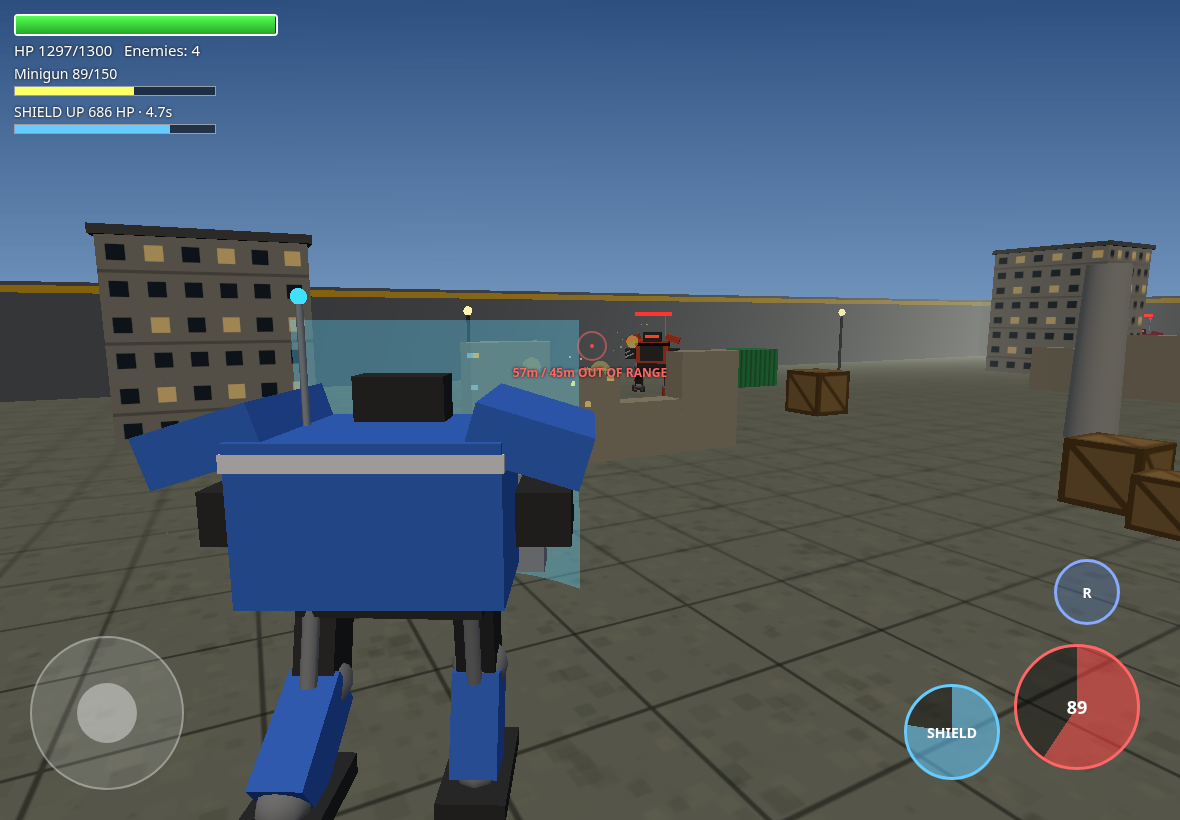
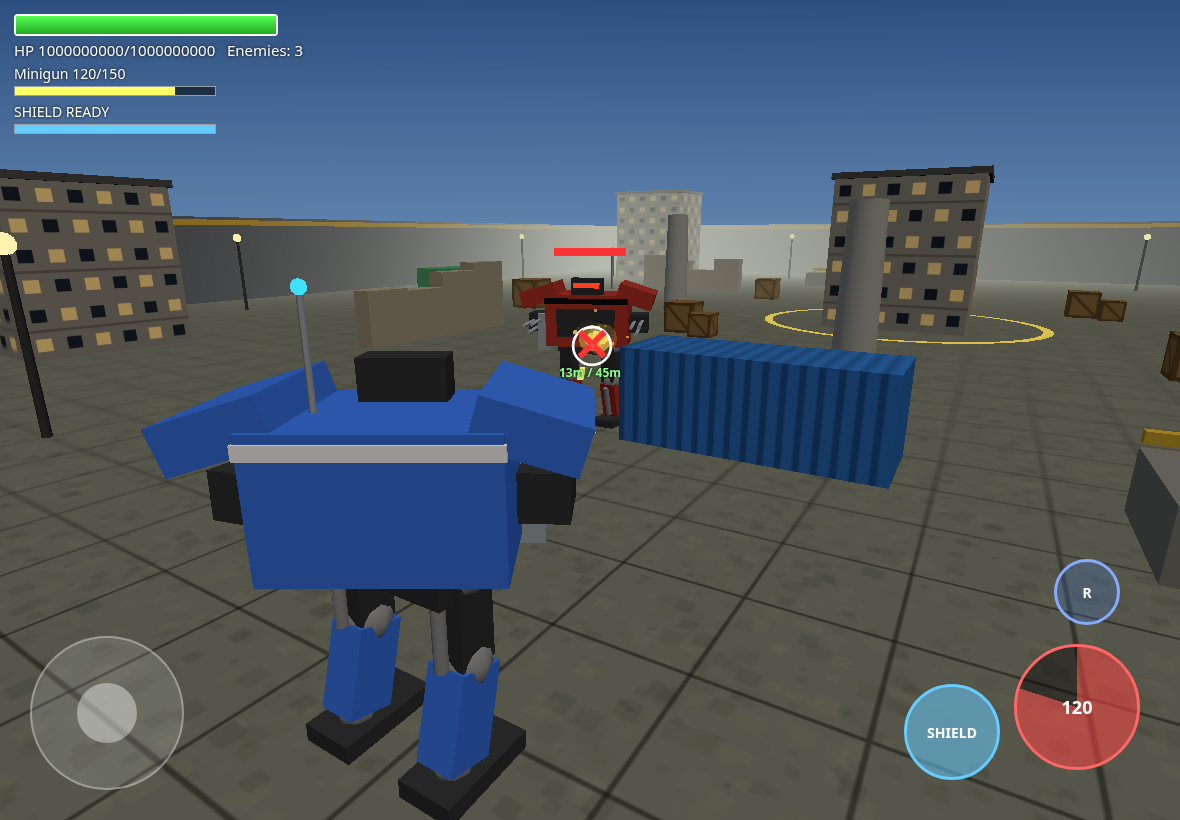
v6: accurate aiming - camera-ray aim point, converging barrels, swept hit detection, box hitboxes, hitscan railgun, hit marker

diff --git a/game.js b/game.js
@@ -1,7 +1,7 @@
 import * as THREE from './three.module.js';
 // ======================= CONFIG (tune here) =======================
 const CFG={
- cam:{dist:7,height:5.4,side:2.2,lookAhead:12,pitchLift:5},
+ cam:{dist:7,height:5.4,side:2.2,lookAhead:12,aimMaxYaw:0.6,aimMaxPitch:0.5,aimTurn:20,pitchLift:5},
  gravity:26, torsoTurn:14, legTurn:6,
  mechs:{
   guardian:{name:'Guardian',hp:1300,speed:7.5,color:0x3a6fd5,enemyColor:0xa8322a,
@@ -16,12 +16,13 @@ const CFG={
  },
  weapons:{
   minigun:{name:'Minigun',desc:'Huge fire rate, low damage per bullet. Spins up. Damage falls off past 60% range.',
-   dmg:8,interval:0.045,spin:0.5,range:45,falloff:0.6,mag:150,reload:3.0,spread:0.05,speed:130,aiBurst:20},
+   dmg:8,interval:0.045,spin:0.5,range:45,falloff:0.6,mag:150,reload:3.0,spread:0.012,speed:160,aiBurst:20},
   railgun:{name:'Railgun',desc:'Slow, precise, hits very hard at long range.',
-   dmg:130,interval:1.1,range:110,mag:6,reload:3.5,spread:0.003,speed:240,aiBurst:1},
+   dmg:130,interval:1.1,range:110,mag:6,reload:3.5,spread:0,speed:240,hitscan:true,aiBurst:1},
   hornet:{name:'Hornet Lock-On',desc:'Hold the crosshair on an enemy in range to lock, then fire homing rockets. Unlocked shots fly straight.',
    dmg:65,interval:0.28,range:55,mag:8,reload:4.0,spread:0.01,speed:42,splash:3.5,homing:true,lockTime:0.9,lockCone:0.2,turnRate:3.2,aiBurst:2},
  },
+ hitbox:{hx:1.5,y0:0.2,y1:5.4,shield:2.6},
  enemy:{count:[3,5],hpMul:0.42,speedMul:0.75,dmgMul:0.55,fireMul:1.5,spread:0.07,torsoTurn:2.5,legTurn:4,burstPause:[1.3,2.6]},
 };
 // ==================================================================
@@ -134,7 +135,7 @@ function animLegs(u,mvx,mvz,sp,dt,legTurn){let dir=1;
  for(const j of u.jets)j.visible=air&&u.vy>-2;
  if(u.shield)u.shield.visible=u.shieldOn;
  if(u.hp<u.max*.35){u.smokeT-=dt;if(u.smokeT<=0){u.smokeT=.12;const p=new THREE.Vector3();u.top.getWorldPosition(p);p.y+=1.5;fx(p,.6,0x333333,{vy:3,grow:2.5,life:1.4,op:.6});}}
- u.lower.rotation.y=u.legYaw;u.top.rotation.y=u.tYaw;u.lower.rotation.z=Math.sin(u.walk)*0.04*u.amp;for(const g of u.guns)g.rotation.x=u.gp;}
+ u.lower.rotation.y=u.legYaw;u.top.rotation.y=u.tYaw;u.lower.rotation.z=Math.sin(u.walk)*0.04*u.amp;if(u.team!=='p')for(const g of u.guns)g.rotation.x=u.gp;}
 // ---------- state ----------
 let P,E=[],B=[],FX=[],mode='menu',clock=0;
 const inp={mx:0,mz:0,fire:false,keys:{}};
@@ -160,9 +161,10 @@ const fxG=new THREE.SphereGeometry(1,8,6),sparkG=new THREE.BoxGeometry(.12,.12,.
 function fx(p,s,c,o={}){const m=new THREE.Mesh(o.box?sparkG:fxG,new THREE.MeshBasicMaterial({color:c,transparent:true,opacity:o.op||1,depthWrite:false}));m.position.copy(p);m.scale.setScalar(s*.2);S.add(m);FX.push({m,t:0,s,v:o.v||new THREE.Vector3(0,o.vy||0,0),grow:o.grow??1,life:o.life||.33,op:o.op||1,g:o.box?-20:0});}
 function boom(p,s,c=0xff8800){fx(p,s,c);}
 function sparks(p,c=0xffe070){for(let i=0;i<4;i++)fx(p,1,c,{box:1,grow:0,life:.35,v:new THREE.Vector3((Math.random()-.5)*12,Math.random()*8,(Math.random()-.5)*12)});}
-function muzzle(u,i){u.flash[i].visible=true;u.flash[i].rotation.z=Math.random()*3;u.flashT=.05;const p=new THREE.Vector3();u.guns[i].getWorldPosition(p);const f=new THREE.Vector3(Math.sin(u.tYaw),0,Math.cos(u.tYaw));return p.addScaledVector(f,u.mz);}
-function fireWeapon(u,aimPt,homing){const W=u.W;u.fireCd=W.interval*(u.team==='e'?CFG.enemy.fireMul:1)/(W.spin?Math.max(.3,u.spin):1);u.ammo--;
- const f=muzzle(u,u.ammo%2);const d=u.team==='p'?torsoDir(f,aimPt):aimPt.clone().sub(f).normalize();
+function muzzle(u,i){u.flash[i].visible=true;u.flash[i].rotation.z=Math.random()*3;u.flashT=.05;const p=new THREE.Vector3();u.guns[i].updateMatrixWorld(true);return u.guns[i].localToWorld(p.set(0,0,u.mz));}
+const STATS={shots:0,hits:0};
+function fireWeapon(u,aimPt,homing){if(u.team==='p')STATS.shots++;const W=u.W;u.fireCd=W.interval*(u.team==='e'?CFG.enemy.fireMul:1)/(W.spin?Math.max(.3,u.spin):1);u.ammo--;
+ const f=muzzle(u,u.ammo%2);const d=aimPt.clone().sub(f).normalize();
  const s=W.spread+(u.team==='e'?CFG.enemy.spread:0);d.x+=(Math.random()-.5)*s;d.y+=(Math.random()-.5)*s*.6;d.z+=(Math.random()-.5)*s;d.normalize();
  shoot(f,d,u,homing);if(u.ammo<=0)u.reload=W.reload;}
 // damage, with Guardian frontal shield
@@ -182,7 +184,8 @@ function tickUnit(u,dt){const T=u.T;u.abCd=Math.max(0,u.abCd-dt);u.fireCd-=dt;
 function speedOf(u){return u.speed*(u.shieldOn?u.T.shield.slow:1)*(u.air&&u.T.jump?u.T.jump.airSpeed:1);}
 // player aim
 const ray=new THREE.Raycaster();const AIMNDC=new THREE.Vector2(0,0.16);
-function playerAim(){ray.setFromCamera(AIMNDC,C);const tg=[...E.map(e=>e.g),...obstMeshes,ground];const h=ray.intersectObjects(tg,true).find(h=>h.distance>CFG.cam.dist+2);return h?h.point:ray.ray.at(150,new THREE.Vector3());}
+function playerAim(){ray.setFromCamera(AIMNDC,C);const tg=[...E.map(e=>e.g),...obstMeshes,ground];const h=ray.intersectObjects(tg,true).find(h=>h.distance>C.position.distanceTo(P.g.position)+1);aimOnEnemy=!!(h&&E.some(e=>{let o=h.object;while(o){if(o===e.g)return true;o=o.parent;}return false;}));return h?h.point:ray.ray.at(150,new THREE.Vector3());}
+let aimOnEnemy=false,hitMarkT=0;
 // ---------- input ----------
 const ABKEYS=['KeyE','ShiftLeft','ShiftRight','Space'];
 addEventListener('keydown',e=>{if(!inp.keys[e.code]&&ABKEYS.includes(e.code))ability(P);inp.keys[e.code]=true;if(e.code==='KeyR')manualReload();if(e.code==='Space')e.preventDefault();});addEventListener('keyup',e=>inp.keys[e.code]=false);
@@ -220,9 +223,9 @@ function update(dt){clock+=dt;const k=inp.keys;let mx=inp.mx+((k.KeyD?1:0)-(k.Ke
  animLegs(P,v.x,v.z,sp*spd,dt,CFG.legTurn);
  const W=P.W,firing=inp.fire||inp.mFire||k.KeyF;
  if(W.spin)P.spin=firing&&!P.reload?Math.min(1,P.spin+dt/W.spin):Math.max(0,P.spin-dt);
- updateLock(dt);
+ updateLock(dt);cam();const AP=playerAim();aimGuns(P,AP,dt);
  if(firing&&P.fireCd<=0&&P.ammo>0&&!P.reload){const locked=W.homing&&P.lockTgt&&P.lockT>=W.lockTime;
-  fireWeapon(P,playerAim(),locked?P.lockTgt:null);}
+  aimGuns(P,AP,1);fireWeapon(P,AP,locked?P.lockTgt:null);}
  // ---- AI ----
  const pp=P.g.position;for(const e of E){const ep=e.g.position;tickUnit(e,dt);const W=e.W;const toP=new THREE.Vector3().copy(pp).sub(ep);const dist=toP.length();
   const eye=ep.clone().setY(ep.y+3.3),pe=pp.clone().setY(pp.y+3.3);const see=los(eye,pe);
@@ -242,12 +245,9 @@ function update(dt){clock+=dt;const k=inp.keys;let mx=inp.mx+((k.KeyD?1:0)-(k.Ke
  for(let i=B.length-1;i>=0;i--){const b=B[i],p=b.m.position,W=b.W,sp=W.speed;let hit=false,hitU=null;
   if(b.homing&&b.homing.hp>0){const tp=b.homing.g.position.clone();tp.y+=3;const want=tp.sub(p).normalize();const cur=b.v.clone().normalize();cur.lerp(want,Math.min(1,W.turnRate*dt)).normalize();b.v.copy(cur).multiplyScalar(sp);b.m.lookAt(p.clone().add(b.v));
    if(Math.random()<.5)fx(p.clone(),.5,0xaaaaaa,{life:.4,op:.5,grow:2});}
-  const steps=W.speed>150?5:3;
-  for(let s=0;s<steps&&!hit;s++){p.addScaledVector(b.v,dt/steps);b.dist+=sp*dt/steps;
-   if(p.y<0||Math.abs(p.x)>A||Math.abs(p.z)>A){hit=true;break;}
-   for(const o of obst)if(p.y<o.h&&Math.abs(p.x-o.x)<o.hx&&Math.abs(p.z-o.z)<o.hz){hit=true;break;}
-   if(hit)break;
-   const targets=b.owner==='p'?E:[P];for(const u of targets){const q=u.g.position,r=u.shieldOn?2.6:1.7;if(p.y>q.y&&p.y<q.y+5.4&&Math.hypot(p.x-q.x,p.z-q.z)<r){hitU=u;hit=true;break;}}}
+  const p0=p.clone(),L=W.hitscan?W.range-b.dist:Math.min(sp*dt,W.range-b.dist+.01);const dir=b.v.clone().normalize();
+  const sw=sweep(p0,dir,L,b.owner);if(sw){p.addScaledVector(dir,sw.t);b.dist+=sw.t;hit=true;hitU=sw.u;if(hitU&&b.owner==='p'){STATS.hits++;hitMarkT=.18;}}else{p.addScaledVector(dir,L);b.dist+=L;}
+  if(W.hitscan&&!b.beam){b.beam=1;beam(p0,p.clone(),b.owner==='p'?0x80e8ff:0xff6060);if(!hit)b.dist=W.range;}
   let mult=1;if(W.falloff&&b.dist>W.range*W.falloff)mult=1-.5*(b.dist-W.range*W.falloff)/(W.range*(1-W.falloff));
   const expired=b.dist>=W.range;
   if(hit||expired){const pos=p.clone();
@@ -258,7 +258,7 @@ function update(dt){clock+=dt;const k=inp.keys;let mx=inp.mx+((k.KeyD?1:0)-(k.Ke
  for(let i=E.length-1;i>=0;i--)if(E[i].hp<=0){const p=E[i].g.position.clone();p.y+=3;boom(p,6);boom(p.clone().setY(p.y+2),4,0x444444);S.remove(E[i].g);if(P.lockTgt===E[i])P.lockTgt=null;E.splice(i,1);}
  if(P.hp<=0){boom(pp.clone().setY(pp.y+3),6);P.hp=0;end(false);}else if(!E.length)end(true);
  hud();}
-function updFx(dt){for(let i=FX.length-1;i>=0;i--){const f=FX[i];f.t+=dt/f.life;f.v.y+=f.g*dt;f.m.position.addScaledVector(f.v,dt);if(f.grow)f.m.scale.setScalar(f.s*(.2+f.t*f.grow));else f.m.scale.setScalar(f.s*(1-f.t));f.m.material.opacity=f.op*(1-f.t);if(f.t>=1){S.remove(f.m);f.m.material.dispose();FX.splice(i,1);}}}
+function updFx(dt){for(let i=FX.length-1;i>=0;i--){const f=FX[i];f.t+=dt/f.life;f.v.y+=f.g*dt;f.m.position.addScaledVector(f.v,dt);if(f.keep){}else if(f.grow)f.m.scale.setScalar(f.s*(.2+f.t*f.grow));else f.m.scale.setScalar(f.s*(1-f.t));f.m.material.opacity=f.op*(1-f.t);if(f.t>=1){S.remove(f.m);f.m.material.dispose();FX.splice(i,1);}}}
 // lock-on: enemy nearest the crosshair, within cone, range and line of sight
 const lockEl=$('lock'),scr=new THREE.Vector3();
 function updateLock(dt){const W=P.W;if(!W.homing){lockEl.style.display='none';return;}
@@ -290,7 +290,8 @@ function hud(){const W=P.W,T=P.T;hpf.style.width=(P.hp/P.max*100)+'%';
  else if(T.jump){if(P.abCd>0){af=1-P.abCd/T.jump.cd;at=`JUMP COOLDOWN ${P.abCd.toFixed(1)}s`;ac='#678';}else at='JUMP READY';}
  else{const t=clock-P.lastHit;af=P.hp>=P.max?1:Math.min(1,t/T.regen.delay);at=P.hp>=P.max?'REGEN: FULL':(af>=1?`REGENERATING +${T.regen.rate}/s`:`REGEN IN ${(T.regen.delay-t).toFixed(1)}s`);ac=af>=1?'#6f9':'#678';}
  abBar.style.width=af*100+'%';abBar.style.background=ac;$('abt').textContent=at;ring(bAB,af,ac+'8');
- if((hudN++&3)===0){const ap=playerAim(),d=ap.distanceTo(P.g.position);const inR=d<=W.range;rng.textContent=`${Math.round(d)}m / ${W.range}m${inR?'':' OUT OF RANGE'}`;rng.style.color=inR?'#8f8':'#f66';$('xh').style.borderColor=inR?'#fffa':'#f668';}}
+ if((hudN++&3)===0){const ap=playerAim(),d=ap.distanceTo(P.g.position);const inR=d<=W.range;rng.textContent=`${Math.round(d)}m / ${W.range}m${inR?'':' OUT OF RANGE'}`;rng.style.color=inR?'#8f8':'#f66';$('xh').style.borderColor=aimOnEnemy?(inR?'#f33':'#f668'):(inR?'#fffa':'#fff6');}
+ $('xh').classList.toggle('hit',hitMarkT>0);hitMarkT-=1/60;}
 // ---------- MENU ----------
 const menu=$('menu'),mc=$('mc');let menuStep='title';
 const statMax={hp:1300,speed:10};const bar=(l,v,t)=>`<div class="st"><span>${l}</span><div class="sb"><i style="width:${Math.max(4,v*100)}%"></i></div><em>${t}</em></div>`;
@@ -323,4 +324,24 @@ function menuClick(e){const el=e.target.closest('[data-go],[data-mech],[data-wpn
 menu.addEventListener('click',menuClick);
 $('again').addEventListener('click',()=>newGame());$('tomenu').addEventListener('click',()=>goMenu());
 goMenu();requestAnimationFrame(loop);
-window.__game={hurt,get E(){return E},get P(){return P},get B(){return B},get mode(){return mode},ability:()=>ability(P),newGame,goMenu,get loadout(){return loadout},setLoadout:(m,w)=>{loadout={mech:m,weapon:w};}};
+window.__game={hurt,STATS,C,cam,obst,obstMeshes,get E(){return E},get P(){return P},get B(){return B},get mode(){return mode},ability:()=>ability(P),newGame,goMenu,get loadout(){return loadout},setLoadout:(m,w)=>{loadout={mech:m,weapon:w};}};
+
+// barrel convergence: rotate each gun pivot so its +Z points at the aim point
+const _l=new THREE.Vector3();
+function aimGuns(u,pt,dt){const K=CFG.cam;u.top.updateMatrixWorld(true);for(const g of u.guns){g.rotation.order='YXZ';
+ _l.copy(pt);g.parent.worldToLocal(_l);_l.sub(g.position);const yaw=Math.max(-K.aimMaxYaw,Math.min(K.aimMaxYaw,Math.atan2(_l.x,_l.z)));
+ const pit=Math.max(-K.aimMaxPitch,Math.min(K.aimMaxPitch,Math.atan2(-_l.y,Math.hypot(_l.x,_l.z))));const k=Math.min(1,dt*K.aimTurn);
+ g.rotation.y+=(yaw-g.rotation.y)*k;g.rotation.x+=(pit-g.rotation.x)*k;}}
+
+// swept segment tests (slab method) -> earliest hit along [o, o+d*L]
+function rayBox(o,d,mn,mx,L){let t0=0,t1=L;for(const a of['x','y','z']){const v=d[a];if(Math.abs(v)<1e-9){if(o[a]<mn[a]||o[a]>mx[a])return -1;continue;}
+ let ta=(mn[a]-o[a])/v,tb=(mx[a]-o[a])/v;if(ta>tb)[ta,tb]=[tb,ta];t0=Math.max(t0,ta);t1=Math.min(t1,tb);if(t0>t1)return -1;}return t0;}
+const _mn=new THREE.Vector3(),_mx=new THREE.Vector3();
+function sweep(o,d,L,owner){let best=null;const H=CFG.hitbox;
+ if(d.y<0){const tg=-o.y/d.y;if(tg>=0&&tg<=L)best={t:tg,u:null};}
+ for(const ob of obst){_mn.set(ob.x-ob.hx,-1,ob.z-ob.hz);_mx.set(ob.x+ob.hx,ob.h,ob.z+ob.hz);const t=rayBox(o,d,_mn,_mx,L);if(t>=0&&(!best||t<best.t))best={t,u:null};}
+ for(const u of owner==='p'?E:[P]){const q=u.g.position,r=u.shieldOn?H.shield:H.hx;_mn.set(q.x-r,q.y+H.y0,q.z-r);_mx.set(q.x+r,q.y+H.y1,q.z+r);const t=rayBox(o,d,_mn,_mx,L);if(t>=0&&(!best||t<best.t))best={t,u};}
+ if(!best){const e=o.clone().addScaledVector(d,L);if(Math.abs(e.x)>A||Math.abs(e.z)>A)best={t:L,u:null};}
+ return best;}
+const beamG=new THREE.BoxGeometry(.12,.12,1);
+function beam(a,b,c){const m=new THREE.Mesh(beamG,new THREE.MeshBasicMaterial({color:c,transparent:true,depthWrite:false}));const l=a.distanceTo(b);m.position.copy(a).lerp(b,.5);m.scale.z=l;m.lookAt(b);S.add(m);FX.push({m,t:0,s:1,v:new THREE.Vector3(),grow:0,life:.2,op:.9,g:0,keep:1});}

diff --git a/index.html b/index.html
@@ -14,6 +14,7 @@ canvas{display:block}
 #ammo .bar{width:200px;height:8px;background:#0008;border:1px solid #fff8;margin:3px 0 6px}#gunf,#abf{height:100%;background:#ff6}
 #xh{position:absolute;left:50%;top:42%;width:26px;height:26px;margin:-13px;border:2px solid #fffa;border-radius:50%}
 #xh:after{content:'';position:absolute;left:11px;top:11px;width:4px;height:4px;background:#f44;border-radius:50%}
+#xh.hit{border-color:#fff!important;transform:scale(1.35)}#xh.hit:before{content:"✕";position:absolute;left:-9px;top:-14px;width:44px;text-align:center;font-size:34px;line-height:50px;color:#f33;font-weight:bold}
 #rng{position:absolute;left:50%;top:calc(42% + 20px);transform:translateX(-50%);font-size:12px;font-weight:bold;text-shadow:0 0 3px #000}
 #lock{position:absolute;width:64px;height:64px;margin:-32px;border:3px solid #fd4;border-radius:50%;display:none;align-items:center;justify-content:center;font-size:11px;font-weight:bold;color:#fff;text-shadow:0 0 3px #000}
 #joy{position:absolute;left:30px;bottom:30px;width:150px;height:150px;border-radius:50%;background:#fff2;border:2px solid #fff5;pointer-events:auto}
@@ -51,4 +52,4 @@ canvas{display:block}
 <div id="hint">WASD move · mouse aim (click to lock) · LMB/F fire · E/Shift/Space/RMB ability · R reload</div>
 <div id="menu"><div id="mc"></div></div>
 <div id="msg"><div id="mt"></div><small id="ml"></small><button class="mb" id="again">PLAY AGAIN</button><button class="mb alt" id="tomenu">MAIN MENU</button></div>
-<script type="module" src="game.js?v=5"></script></body></html>
+<script type="module" src="game.js?v=6"></script></body></html>
